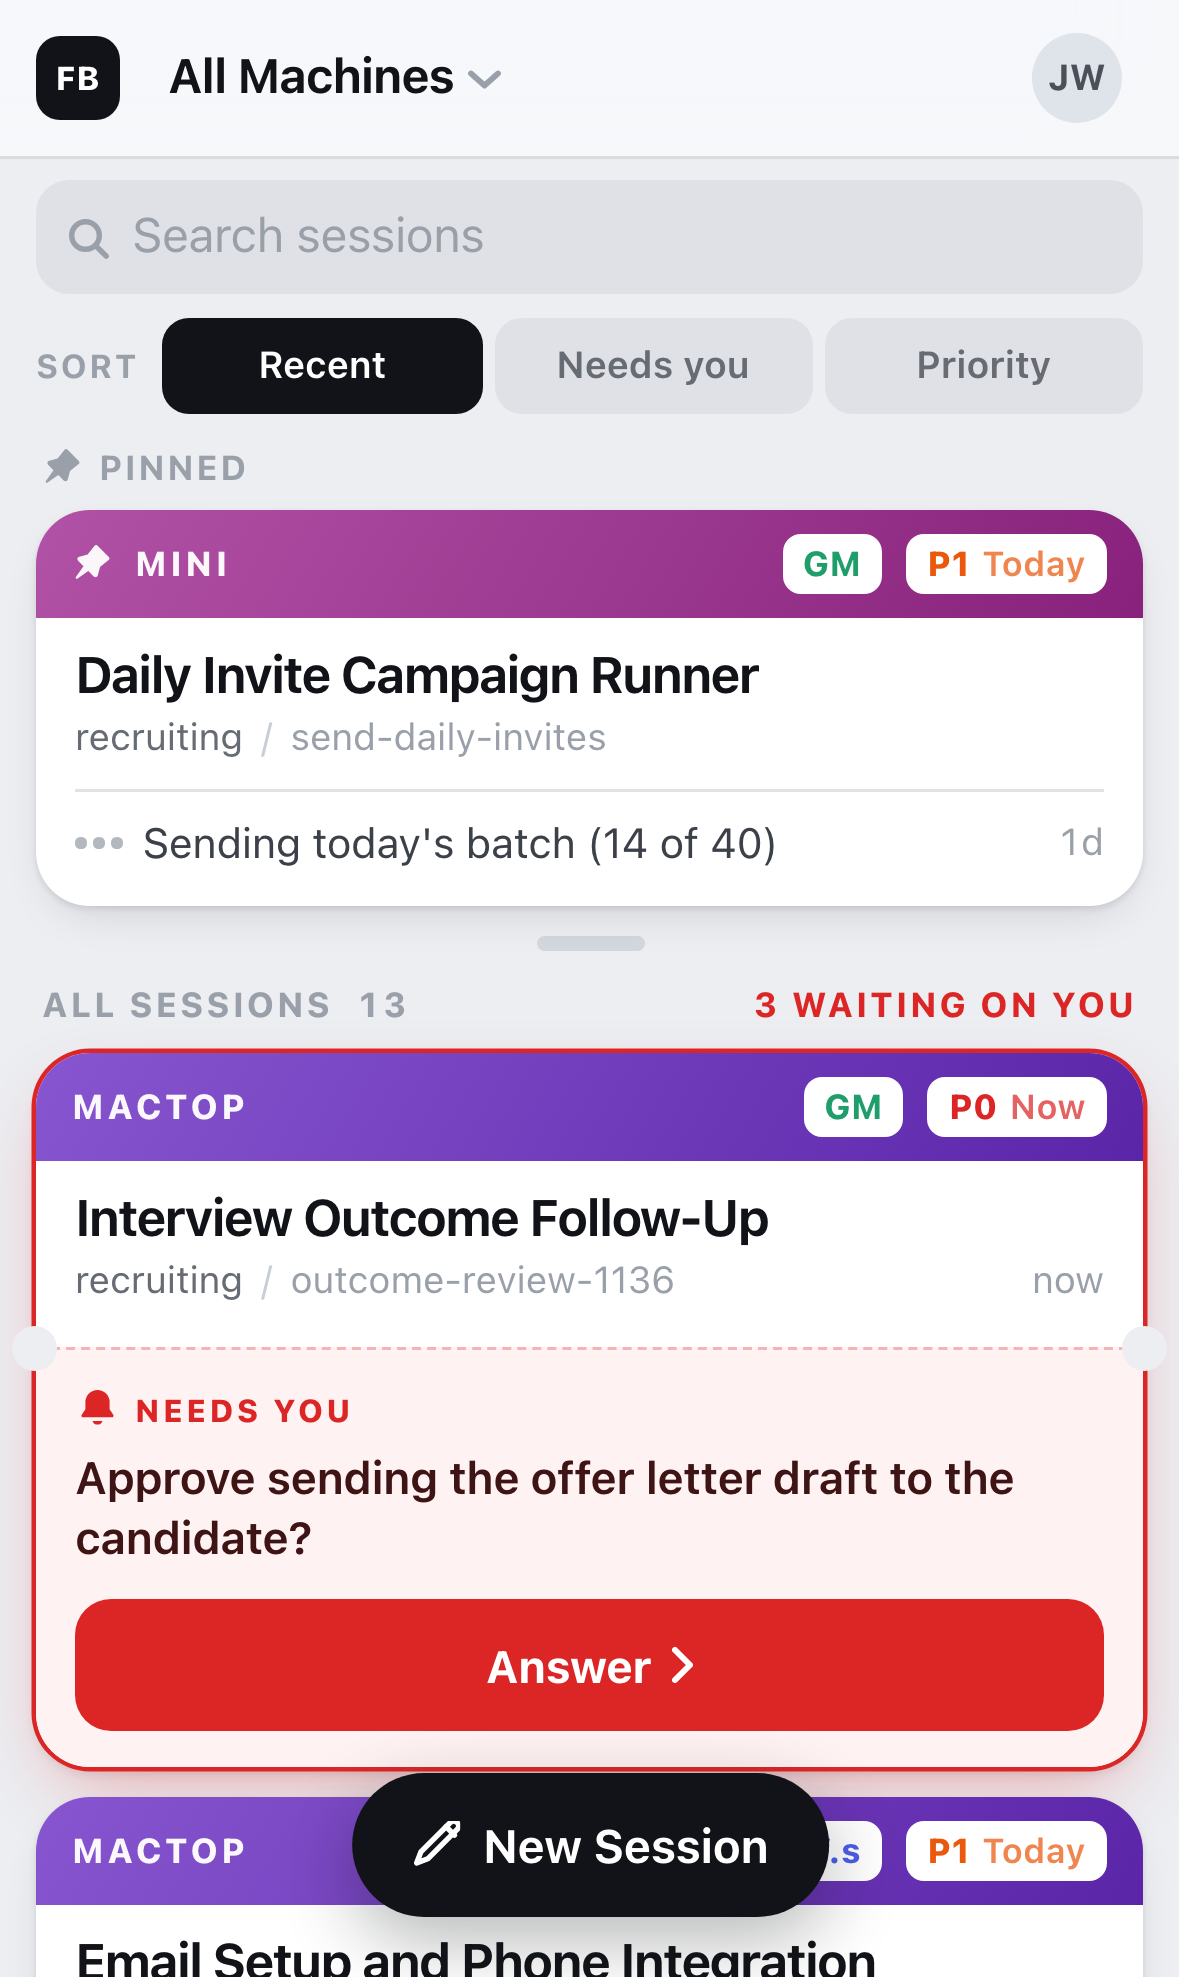
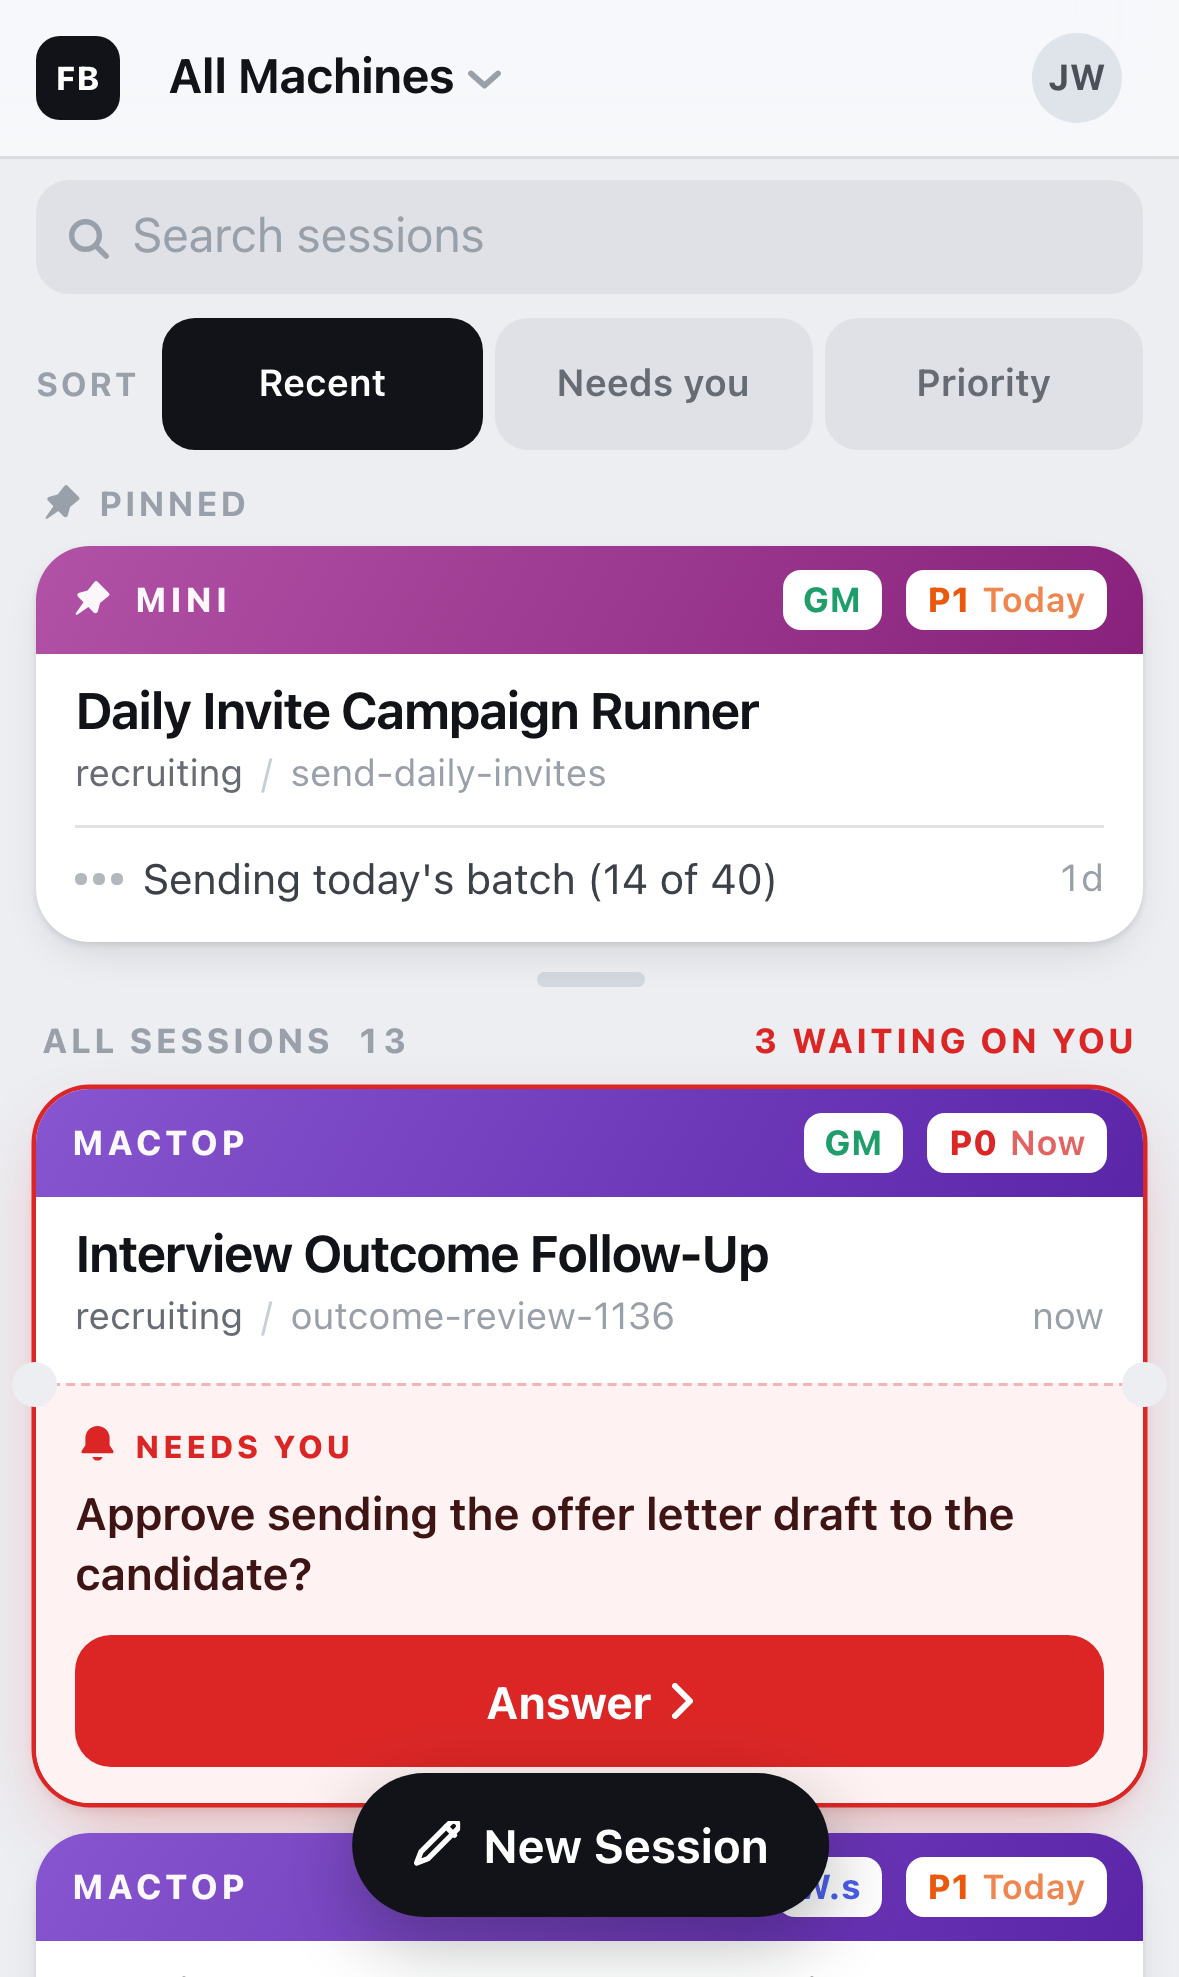
ios remote: 12 directions (scrubbed mirror)

diff --git a/ios/f-things.html b/ios/f-things.html
@@ -51,9 +51,9 @@ svg{display:block;flex:none}
   background:rgba(118,118,128,.10);border-radius:10px;color:var(--ink3)}
 .search input{flex:1;border:0;background:none;outline:none;font-size:16px;color:var(--ink)}
 .search input::placeholder{color:var(--ink3)}
-.seg{display:flex;gap:3px;background:rgba(118,118,128,.09);border-radius:9px;padding:3px;
+.seg{display:flex;gap:3px;background:rgba(118,118,128,.09);border-radius:12px;padding:2px;
   margin-bottom:4px}
-.seg button{flex:1;min-height:30px;border-radius:7px;font-size:12.5px;font-weight:620;
+.seg button{flex:1;min-height:44px;border-radius:10px;font-size:13px;font-weight:620;
   color:var(--ink2)}
 .seg button[aria-pressed="true"]{background:#fff;color:var(--ink);
   box-shadow:0 1px 2px rgba(17,19,24,.14)}
@@ -142,7 +142,7 @@ svg{display:block;flex:none}
 .dhead{padding:12px 14px 12px;border-bottom:.5px solid var(--hair)}
 .dhead h1{font-size:22px;font-weight:700;letter-spacing:-.025em;line-height:1.18}
 .dhead .sub{margin-top:4px;font-size:13px}
-.dhead .caps{margin-top:9px;gap:5px}
+.dhead .caps{margin-top:9px;gap:5px;flex-wrap:wrap;row-gap:5px}
 .dhead .cap{height:20px;padding:0 7px;font-size:11px;border-radius:6px}
 .facts{display:flex;flex-wrap:wrap;gap:0 14px;padding:9px 14px;border-bottom:.5px solid var(--hair);
   background:var(--panel);font-size:12px;color:var(--ink2);font-weight:600}
@@ -229,7 +229,7 @@ svg{display:block;flex:none}
 .trow .tag{display:inline-flex;align-items:center;height:18px;padding:0 6px;border-radius:5px;
   font-size:10.5px;font-weight:850;background:var(--tint);color:var(--c);flex:none;margin-top:1px}
 .trow .nm{flex:1;font-size:15px;font-weight:620;letter-spacing:-.01em;line-height:1.25}
-.trow .meta{margin-top:2px;font-size:12px;color:var(--ink3)}
+.trow .meta{display:block;margin-top:2px;font-size:12px;color:var(--ink3);font-weight:500}
 .krow{display:flex;align-items:center;gap:9px;min-height:42px;padding:0 14px 0 40px;
   border-bottom:.5px solid var(--hair);font-size:14px;background:#fff}
 .krow .r{width:16px;height:16px;border-radius:50%;border:1.6px solid #c3c8d0;flex:none;
@@ -483,7 +483,7 @@ function viewNew(){
         '<div class="grow"><span class="k">Task id</span>' +
           '<input id="task" type="text" placeholder="optional" aria-label="Task id"></div>' +
       '</div>' +
-      '<div class="glab">Org — read from the repo, tap to change</div>' +
+      '<div class="glab">Org — from the repo</div>' +
       '<div class="group"><div class="chipsrow">' + F.orgs.map(function(o){
         return '<button class="pick" data-norg="' + o.id + '" aria-pressed="' +
           (S.newOrg === o.id) + '" style="--c:' + o.color + '"><span class="d"></span>' +

diff --git a/ios/e-wallet.html b/ios/e-wallet.html
@@ -71,7 +71,7 @@ svg{display:block;flex:none}
 .sortbar .cap{font-size:11px;font-weight:700;letter-spacing:.07em;text-transform:uppercase;
   color:var(--ink3);margin-right:2px}
 .seg{display:flex;gap:4px;flex:1}
-.seg button{flex:1;min-height:32px;border-radius:9px;background:rgba(118,118,128,.10);
+.seg button{flex:1;min-height:44px;border-radius:11px;background:rgba(118,118,128,.10);
   font-size:12.5px;font-weight:600;color:var(--ink2);padding:0 4px}
 .seg button[aria-pressed="true"]{background:#111318;color:#fff}
 .grouphead{display:flex;align-items:baseline;gap:8px;margin:10px 2px 8px;
@@ -436,7 +436,7 @@ function viewSession(id){
         '<span class="txt">' + esc(s.now) + '</span><span class="age tnum">' + esc(s.ago) +
         '</span></div>') +
       '<div class="facts"><span class="fact">' + esc(STATE[s.status]) + '</span>' +
-        '<span class="fact tnum">' + esc(s.ago) + '</span>' +
+        '<span class="fact tnum">updated ' + esc(s.ago) + '</span>' +
         '<span class="fact">' + esc(s.model) + '</span>' +
         '<span class="fact tnum">' + s.ctx + '% context</span>' +
         '<span class="fact tnum">$' + s.cost.toFixed(2) + '</span>' +
@@ -476,7 +476,7 @@ function viewNew(){
       '<div class="field"><label for="dir">Directory</label>' +
         '<input id="dir" type="text" value="~/Projects/recruiting"></div>' +
       '<div class="field"><label>Org <span style="text-transform:none;letter-spacing:0;' +
-        'font-weight:600;color:#a0a4ac">— from the repo, tap to change</span></label>' +
+        'font-weight:600;color:#a0a4ac">— from the repo</span></label>' +
         '<div class="pickrow">' + F.orgs.map(function(o){
           return '<button class="pill" data-norg="' + o.id + '" aria-pressed="' +
             (S.newOrg === o.id) + '" style="--c:' + o.color + '"><span class="d"></span>' +
